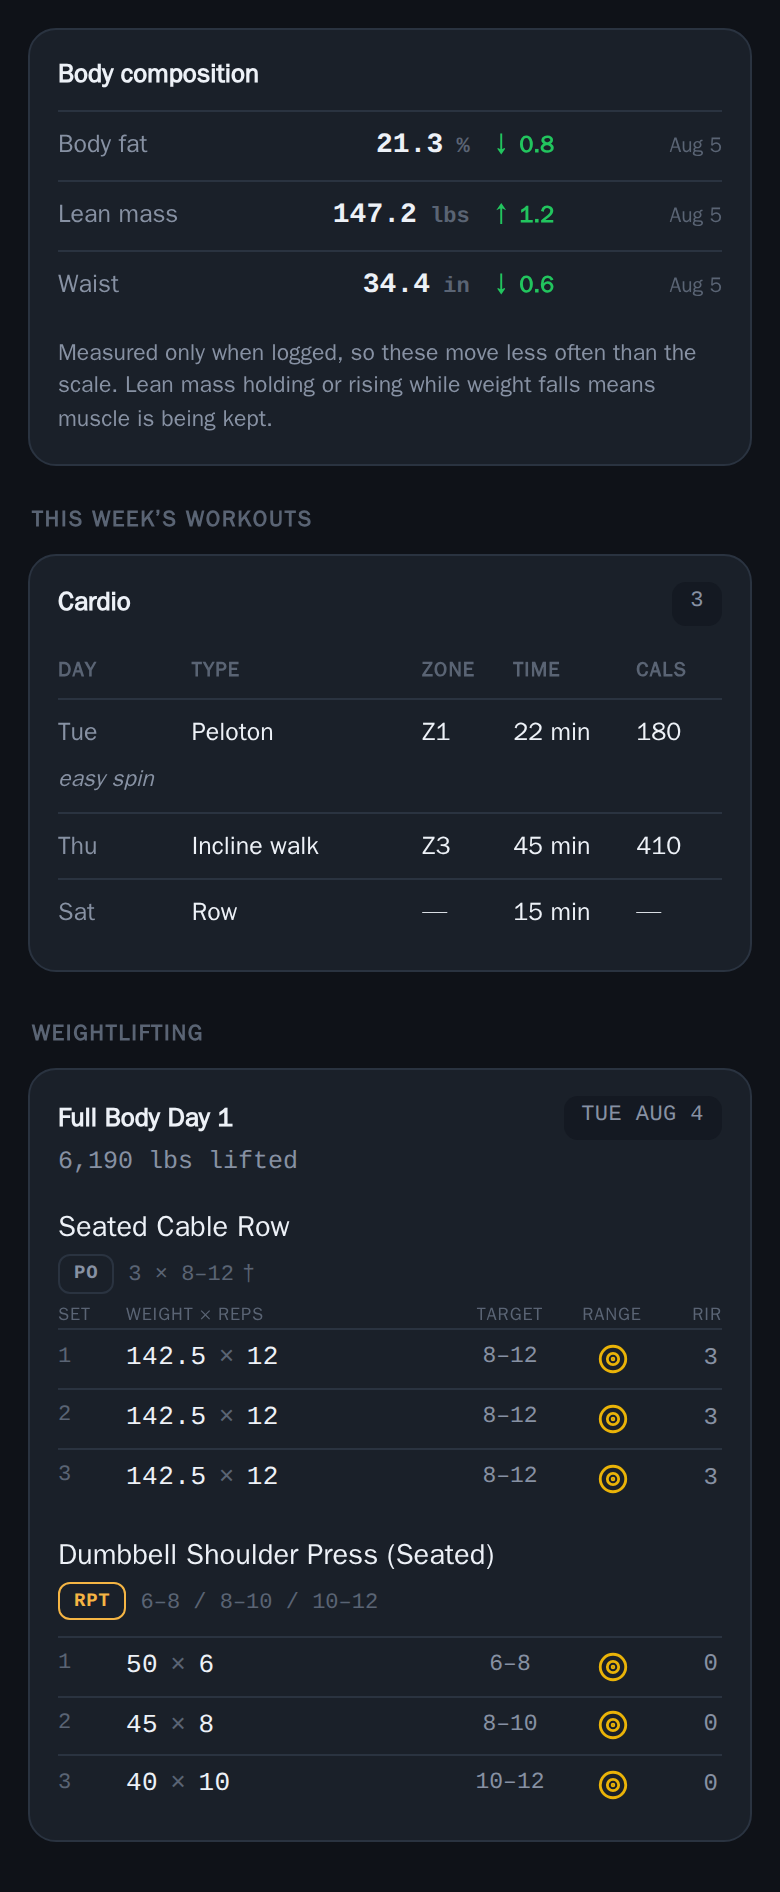
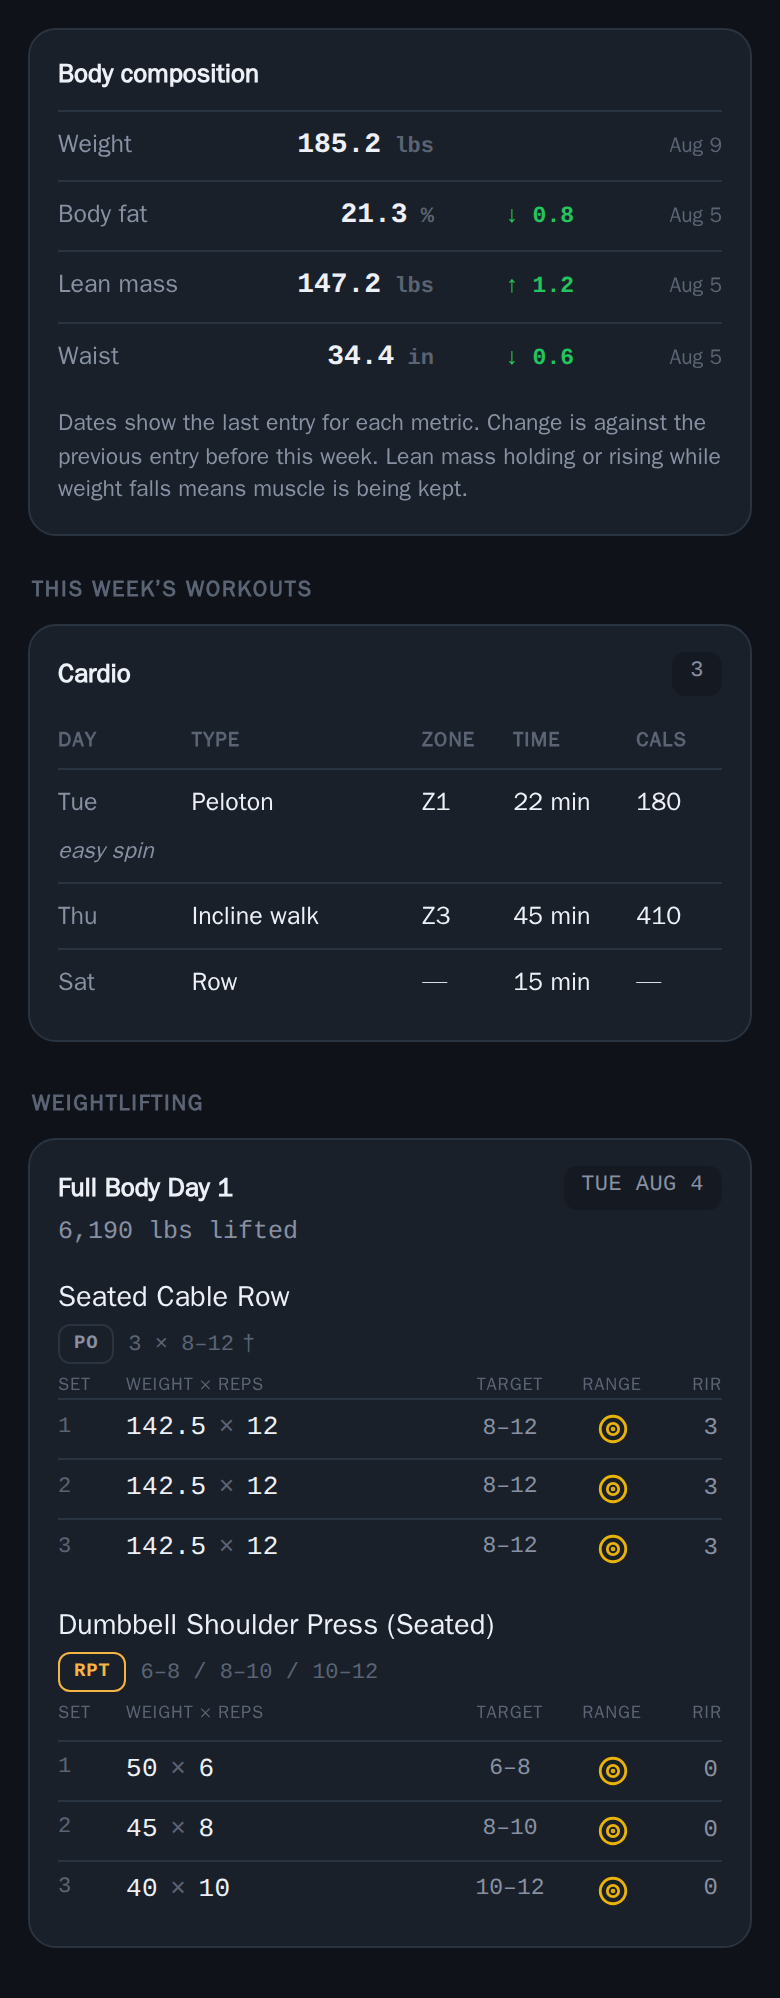
Report: weight leads body comp, columns hold, per-exercise headers (.428-bcweight)
Owner, 2026-08-03, four report notes.

- Weight is now the first body-composition metric, with its own last-measured
  date and its change against the previous entry before the week — the same
  rule the other metrics use, which for a daily-logged metric is exactly
  'compared to previous week'. Direction follows the strategy: down reads good
  on a cut, up on a gain.
- The columns were ragged because a row with no change emitted no cell at all,
  so the date slid left. The grid is now fixed-width (1fr / 96 / 62 / 66), the
  value column right-aligns, and a row with nothing to report emits an EMPTY
  change cell rather than none. An unchanged metric shows an em dash.
- 'Measured only when logged…' is gone. It now reads 'Dates show the last entry
  for each metric. Change is against the previous entry before this week.'
- The Set / Weight × Reps / Target / Range / RIR header repeats for every
  exercise instead of printing once at the top. Five columns is more than
  anyone holds in their head while scrolling.

C21 13/13 — T12 asserts weight leads, that every row carries all four cells
including the stale one, and the new hint wording; T13 counts a header on each
of three exercises. C20 34/34; c11m8 matrix/replay/tags/upgrade and C14 67/67.

Claude-Session: https://claude.ai/code/session_013vTJLyt3fzzCxkgRaB7ajH

diff --git a/index.html b/index.html
@@ -936,7 +936,7 @@ html[data-theme] .wl-header.mode-sick{background:linear-gradient(180deg,rgba(159
 "use strict";
 /* ---------------- helpers ---------------- */
 var DAY=86400000;
-var APP_BUILD="2026-08-03.427-bodycomp";
+var APP_BUILD="2026-08-03.428-bcweight";
 var PACE_MIN_WEIGHINS=7; /* weigh-ins required before a trend/pace is meaningful; below this a 2-point slope reads as a confident "2 lb/wk" that is pure noise */
 var SHOW_TESTBTN=true; /* test-only: manual recap Complete/Regenerate button under the recap. Set false for release. */
 var BRANDMARK='<svg viewBox="0 0 100 100" width="18" height="18" aria-hidden="true"><rect x="12" y="56" width="22" height="28" rx="8" fill="#7C93F5"/><rect x="39" y="40" width="22" height="44" rx="8" fill="#9FB0C9"/><rect x="66" y="16" width="22" height="68" rx="8" fill="#F5B544"/></svg>';
@@ -3946,7 +3946,10 @@ function srExerciseHTML(x,first){
   var h='<div class="ex"><div class="ex-name">'+srEsc(x.name)+'</div>';
   var sch=srSchemeTxt(x);
   h+='<div class="ex-scheme"><span class="ptag'+(x.mode==="rpt"?" rpt":"")+'">'+(x.mode==="rpt"?"RPT":"PO")+'</span>'+srEsc(sch)+(x.assumed?'<span class="dag">&dagger;</span>':'')+'</div>';
-  if(first)h+='<div class="setgrid sethead"><span>Set</span><span>Weight &times; Reps</span><span style="text-align:center">Target</span><span style="text-align:center">Range</span><span style="text-align:right">RIR</span></div>';
+  /* the header repeats per exercise (Owner, 2026-08-03: "It only lists it
+     at the very top") — five columns is more than anyone holds in their head
+     while scrolling a report. `first` still controls the leading gap only. */
+  h+='<div class="setgrid sethead"><span>Set</span><span>Weight &times; Reps</span><span style="text-align:center">Target</span><span style="text-align:center">Range</span><span style="text-align:right">RIR</span></div>';
   (x.sets||[]).forEach(function(st,i){
     if(st.skipped){
       h+='<div class="setgrid setrow'+((!first&&i===0)?' pad':'')+'">'+
@@ -3993,15 +3996,18 @@ function srBodyCompHTML(inp){
   if(!rows.length)return "";
   var h='<div class="wl-card"><div class="wl-card-head"><span>Body composition</span></div>';
   rows.forEach(function(r){
-    var chg="";
+    var chg;
     if(r.chg!=null&&r.chg!==0){
       var good=r.goodUp?(r.chg>0):(r.chg<0);
-      chg='<span class="bc-chg '+(good?"good":"bad")+'">'+(r.chg>0?"&#8593; ":"&#8595; ")+srR1(Math.abs(r.chg))+'</span>';
-    }else if(r.chg===0)chg='<span class="bc-chg">no change</span>';
+      chg='<span class="bc-chg '+(good?"good":"bad")+'">'+(r.chg>0?"&#8593;":"&#8595;")+' '+srR1(Math.abs(r.chg))+'</span>';
+    }else if(r.chg===0)chg='<span class="bc-chg flat">&mdash;</span>';
+    /* an empty cell, never an absent one: the column must hold its width or the
+       rows below stop lining up (Owner, 2026-08-03) */
+    else chg='<span class="bc-chg"></span>';
     h+='<div class="bc-row"><span class="bc-k">'+srEsc(r.key)+'</span>'+
        '<span class="bc-v">'+srR1(r.val)+'<em> '+srEsc(r.unit)+'</em></span>'+
        chg+'<span class="bc-d">'+srEsc(r.stale?("last logged "+r.dateLabel):r.dateLabel)+'</span></div>';});
-  h+='<div class="wl-hint">Measured only when logged, so these move less often than the scale. Lean mass holding or rising while weight falls means muscle is being kept.</div>';
+  h+='<div class="wl-hint">Dates show the last entry for each metric. Change is against the previous entry before this week. Lean mass holding or rising while weight falls means muscle is being kept.</div>';
   return h+'</div>';}
 /* the Summary tab's weekly-average hero, change pill included */
 function srHeroHTML(inp){
@@ -4114,15 +4120,16 @@ var SRCSS=[
 ".wl-count{font-family:var(--mono);font-size:11px;color:var(--muted);background:var(--bg2);padding:3px 9px;border-radius:7px;font-weight:500;letter-spacing:.02em;text-transform:uppercase}",
 ".wl-hint{font-size:12px;color:var(--muted);line-height:1.45;margin-top:10px}",
 ".ph-row{display:grid;gap:9px}",
-".bc-row{display:grid;grid-template-columns:1fr auto auto auto;gap:10px;align-items:baseline;padding:7px 0;border-top:1px solid var(--line)}",
+".bc-row{display:grid;grid-template-columns:1fr 96px 62px 66px;gap:8px;align-items:baseline;padding:7px 0;border-top:1px solid var(--line)}",
 ".bc-row:first-of-type{border-top:0}",
 ".bc-k{font-size:12.5px;color:var(--muted);font-weight:700}",
-".bc-v{font-family:var(--mono);font-size:14px;color:var(--text);font-weight:700}",
+".bc-v{font-family:var(--mono);font-size:14px;color:var(--text);font-weight:700;text-align:right}",
 ".bc-v em{font-style:normal;font-size:11px;color:var(--faint);font-weight:600}",
-".bc-chg{font-size:11.5px;font-weight:800;color:var(--muted)}",
+".bc-chg{font-family:var(--mono);font-variant-numeric:tabular-nums;font-size:11.5px;font-weight:800;color:var(--muted);text-align:right}",
+".bc-chg.flat{color:var(--faint);font-weight:600}",
 ".bc-chg.good{color:#22c55e}",
 ".bc-chg.bad{color:#ef4444}",
-".bc-d{font-size:10.5px;color:var(--faint);text-align:right;min-width:74px}",
+".bc-d{font-size:10.5px;color:var(--faint);text-align:right;white-space:nowrap}",
 ".cd-row{display:grid;grid-template-columns:1.1fr 2fr .7fr 1fr .8fr;gap:8px;align-items:baseline;padding:7px 0;border-top:1px solid var(--line);font-size:12.5px}",
 ".cd-row span:first-child{color:var(--muted);font-weight:700}",
 ".cd-row .cd-ty{color:var(--text);font-weight:700}",
@@ -4331,11 +4338,16 @@ function srInput(offset){
 function srBodyCompInput(offset){
   var days=weekDays(offset).map(function(d){return toISO(d);});
   var startISO=days[0],u=state.settings.units;
-  var defs=[["bodyfat","Body fat","%",false],["leanmass","Lean mass",u,true],
-            ["waist","Waist",(u==="kg"?"cm":"in"),false]];
+  /* weight leads (Owner, 2026-08-03), and follows the same rule as the rest:
+     latest reading in the week against the latest reading before it, which for
+     a daily-logged metric is exactly "compared to previous week" */
+  var wmap={};(state.weights||[]).forEach(function(x){if(num(x.weight)!=null)wmap[x.date]=x.weight;});
+  var gainUp=((state.settings.strategy||"lose")==="gain");
+  var defs=[["__weight","Weight",u,gainUp],["bodyfat","Body fat","%",false],
+            ["leanmass","Lean mass",u,true],["waist","Waist",(u==="kg"?"cm":"in"),false]];
   var out=[],any=false;
   defs.forEach(function(d){
-    var map=state[d[0]]||{};
+    var map=(d[0]==="__weight")?wmap:(state[d[0]]||{});
     var keys=Object.keys(map).filter(function(k){return num(map[k])!=null;}).sort();
     if(!keys.length){out.push({key:d[1],unit:d[2],val:null});return;}
     var inWk=null;

diff --git a/tests/browser/c21-repranges.browser.test.js b/tests/browser/c21-repranges.browser.test.js
@@ -231,6 +231,61 @@ const notOk=(v,m)=>{if(v)throw new Error(m||'expected falsy');};
     eq(t11.empty,'','with nothing logged the card must omit itself');
   });
 
+  /* ---- T12: weight leads, columns hold their width, header repeats ----- */
+  const t12=await ev(()=>{
+    const wk=weekDays(0).map(d=>toISO(d));
+    const before=toISO(new Date(parseISO(wk[0]).getTime()-3*86400000));
+    state.settings.strategy='lose';
+    state.weights=[{date:before,weight:186.8},{date:wk[2],weight:184.6}];
+    state.bodyfat={};state.leanmass={};state.waist={};
+    state.bodyfat[before]=22.1;state.bodyfat[wk[2]]=21.3;
+    state.waist[before]=35.0;                       /* stale: no in-week reading */
+    const holder=document.createElement('div');
+    holder.innerHTML=srBodyCompHTML(srInput(0));
+    const rows=[].slice.call(holder.querySelectorAll('.bc-row'));
+    const cellsPerRow=rows.map(r=>r.children.length);
+    const first=rows[0];
+    /* every row must carry all four cells, including the one with no change */
+    const stale=rows.filter(r=>/last logged/.test(r.querySelector('.bc-d').textContent))[0];
+    return {order:rows.map(r=>r.querySelector('.bc-k').textContent),
+      cellsPerRow,
+      firstVal:first.querySelector('.bc-v').textContent,
+      firstChg:first.querySelector('.bc-chg').textContent.trim(),
+      firstCls:first.querySelector('.bc-chg').className,
+      firstDate:first.querySelector('.bc-d').textContent,
+      staleChgText:stale?stale.querySelector('.bc-chg').textContent.trim():null,
+      staleHasChgCell:stale?!!stale.querySelector('.bc-chg'):null,
+      hint:(holder.querySelector('.wl-hint')||{}).textContent||''};
+  });
+  test('T12 weight leads body composition and every row keeps all four columns',()=>{
+    eq(t12.order[0],'Weight','weight must be the first metric');
+    eq(t12.order,['Weight','Body fat','Waist'],'metrics with no data at all are omitted');
+    ok(t12.cellsPerRow.every(n2=>n2===4),'ragged rows will not align: '+JSON.stringify(t12.cellsPerRow));
+    ok(/184\.6/.test(t12.firstVal),'value was '+t12.firstVal);
+    ok(/↓|&#8595;|\u2193/.test(t12.firstChg)||/2\.2/.test(t12.firstChg),'change was "'+t12.firstChg+'"');
+    ok(/good/.test(t12.firstCls),'weight down on a cut should read good: '+t12.firstCls);
+    ok(t12.firstDate.length>0,'weight needs its last-measured date too');
+    ok(t12.staleHasChgCell,'a stale row must still emit the change CELL, empty');
+    eq(t12.staleChgText,'','and that cell must be empty rather than absent');
+    ok(/Dates show the last entry/.test(t12.hint),'hint was: '+t12.hint);
+    notOk(/Measured only when logged/.test(t12.hint),'the old wording is still there');
+  });
+
+  /* ---- T13: the set-column header repeats for every exercise ------------ */
+  const t13=await ev(()=>{
+    const mk=n2=>({name:n2,mode:'single',ranges:[{lo:8,hi:12}],
+      sets:[{n:1,w:100,r:10,rir:2,lo:8,hi:12}]});
+    const holder=document.createElement('div');
+    holder.innerHTML=srExerciseHTML(mk('First'),true)+srExerciseHTML(mk('Second'),false)+srExerciseHTML(mk('Third'),false);
+    const heads=[].slice.call(holder.querySelectorAll('.sethead'));
+    return {n:heads.length,
+      cols:heads.map(h2=>[].slice.call(h2.children).map(c=>c.textContent))};
+  });
+  test('T13 every exercise carries its own Set / Weight × Reps / Target / Range / RIR header',()=>{
+    eq(t13.n,3,'the header appeared on '+t13.n+' of 3 exercises');
+    t13.cols.forEach(c=>eq(c,['Set','Weight × Reps','Target','Range','RIR']));
+  });
+
   test('T7 no uncaught page errors',()=>{eq(errs,[],'page errors');});
 
   console.log('\nC21 — coach-report rep ranges: '+passed+' passed, '+failures.length+' failed');
